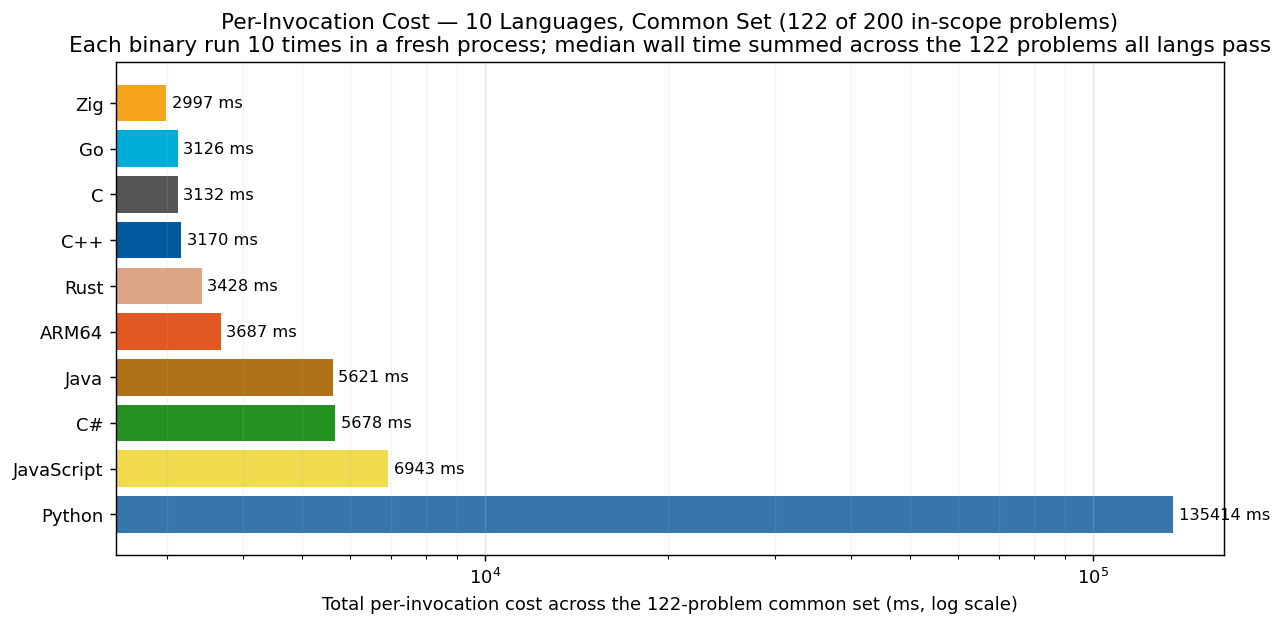
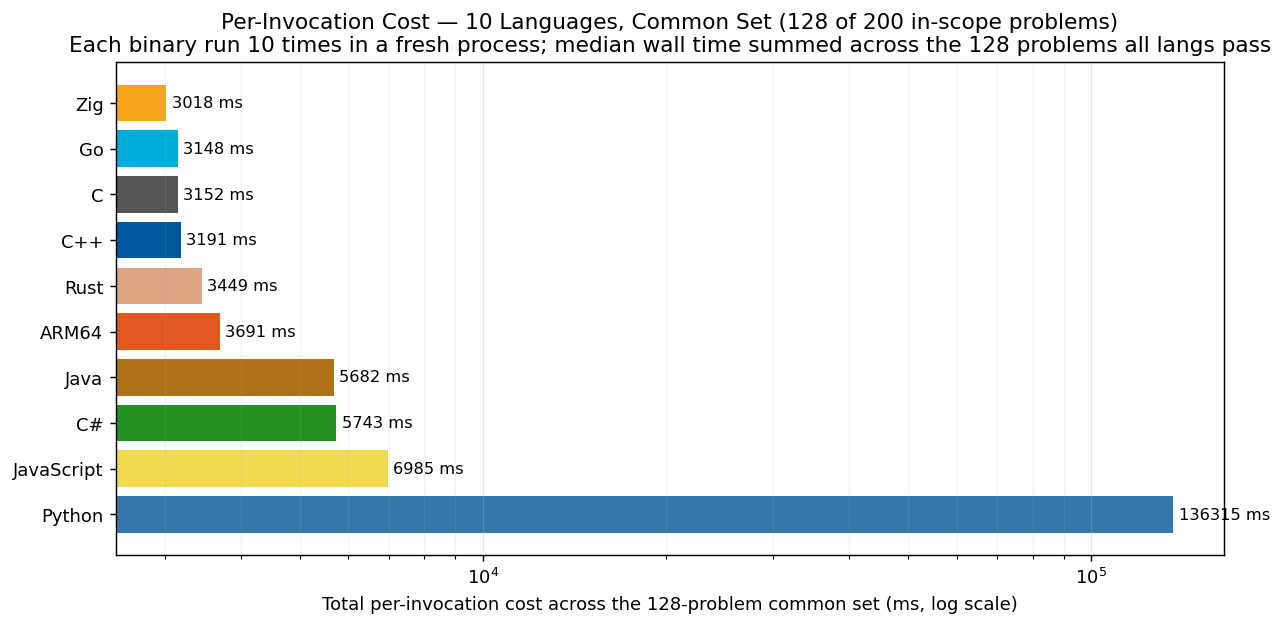
publish: +20 cells (py 158,160,173,188,194 / 5-lang × 158,160,194); common-set 125→128

diff --git a/RESULTS.md b/RESULTS.md
@@ -1,37 +1,37 @@
 # Project Euler — Cross-Language Benchmarks
 
-> **Scope: 200 problems × 10 languages = 2000 cells, 1543 measured (77.2% coverage).**
-> The cross-language ranking below is computed over the **122-problem common set** (problems where every language has a passing measurement) — the apples-to-apples comparison surface.  Per-language coverage detail appears below the ranking.
+> **Scope: 200 problems × 10 languages = 2000 cells, 1571 measured (78.5% coverage).**
+> The cross-language ranking below is computed over the **128-problem common set** (problems where every language has a passing measurement) — the apples-to-apples comparison surface.  Per-language coverage detail appears below the ranking.
 > Growing carefully — each new problem and language is audited for state-leak
 > safety, verified for answer correctness, and added only when it cleanly fits the
 > measurement methodology.  See [JOURNEY.md](JOURNEY.md) for the full story of how
 > we got here, including the reset from 200+ problems back to a verified 10×10
 > core, then the disciplined expansion to today's 200-problem scope.
 
-## Per-Invocation Cost (Common Set, 122 of 200 problems)
+## Per-Invocation Cost (Common Set, 128 of 200 problems)
 
 We run each program 10 times in fresh OS processes (no warmup, no shared state).
 Each invocation pays full startup + algorithm cost — the cost a real CLI / cron /
 shell-loop user actually pays.  The median wall time across the 10 invocations is
-the headline per-problem number, and the table sums over the 122-problem
+the headline per-problem number, and the table sums over the 128-problem
 common set so partial-coverage languages aren't artificially "faster" than fully-
 covered ones.  Per-language individual coverage (which may be ≥ the common set) is
 shown in the coverage block further down.
 
 ![Per-Invocation Cost](charts/per_iter_total.png)
 
-| Rank | Language | Total (122-problem common set) | Lines of code | vs Fastest |
+| Rank | Language | Total (128-problem common set) | Lines of code | vs Fastest |
 |------|----------|--------------------:|--------------:|-----------:|
-| 1 | **Zig** | 3.00 s | 7,662 | 1.00× |
-| 2 | **Go** | 3.13 s | 7,085 | 1.04× |
-| 3 | **C** | 3.13 s | 7,397 | 1.04× |
-| 4 | **C++** | 3.17 s | 5,635 | 1.06× |
-| 5 | **Rust** | 3.43 s | 6,577 | 1.14× |
-| 6 | **ARM64** | 3.69 s | 23,011 | 1.23× |
-| 7 | **Java** | 5.62 s | 5,684 | 1.88× |
-| 8 | **C#** | 5.68 s | 5,792 | 1.89× |
-| 9 | **JavaScript** | 6.94 s | 4,789 | 2.32× |
-| 10 | **Python** | 135.41 s | 4,262 | 45.18× |
+| 1 | **Zig** | 3.02 s | 8,138 | 1.00× |
+| 2 | **Go** | 3.15 s | 7,505 | 1.04× |
+| 3 | **C** | 3.15 s | 7,863 | 1.04× |
+| 4 | **C++** | 3.19 s | 6,063 | 1.06× |
+| 5 | **Rust** | 3.45 s | 6,928 | 1.14× |
+| 6 | **ARM64** | 3.69 s | 24,412 | 1.22× |
+| 7 | **Java** | 5.68 s | 6,088 | 1.88× |
+| 8 | **C#** | 5.74 s | 6,175 | 1.90× |
+| 9 | **JavaScript** | 6.98 s | 5,107 | 2.31× |
+| 10 | **Python** | 136.31 s | 4,567 | 45.17× |
 
 ## Speed vs Code Size
 
@@ -188,12 +188,12 @@ fixed tier order (native → managed → interpreted).
 | Problem | ARM64 | C | C++ | Rust | Zig | Go | C# | Java | JavaScript | Python |
 |---------|----:|----:|----:|----:|----:|----:|----:|----:|----:|----:|
 | **p101** | 1.0 µs | 1.3 µs | 1.2 µs | 2.3 µs | 1.6 µs | 3.6 µs | 210.9 µs | 16.9 µs | 79.6 µs | 55.2 µs |
-| **p102** | 153.0 µs | 482.3 µs | 486.8 µs | 203.1 µs | 173.2 µs | 189.9 µs | 13.06 ms | — | 1.02 ms | — |
+| **p102** | 153.0 µs | 482.3 µs | 486.8 µs | 203.1 µs | 173.2 µs | 189.9 µs | 13.06 ms | 11.30 ms | 1.02 ms | 999.6 µs |
 | **p103** | 7.71 ms | 26.93 ms | 27.09 ms | 27.28 ms | 25.31 ms | 66.76 ms | 220.44 ms | 77.77 ms | 186.57 ms | 3.10 s |
 | **p104** | 6.71 ms | 6.17 ms | 5.00 ms | 6.36 ms | 6.47 ms | 7.13 ms | 6.42 ms | 8.13 ms | 7.94 ms | 135.81 ms |
-| **p105** | 3.21 ms | 19.67 ms | 20.06 ms | 21.28 ms | 19.90 ms | 21.38 ms | 36.10 ms | — | 36.03 ms | — |
+| **p105** | 3.21 ms | 19.67 ms | 20.06 ms | 21.28 ms | 19.90 ms | 21.38 ms | 36.10 ms | 38.22 ms | 36.03 ms | 896.30 ms |
 | **p106** | 0 ns | 208 ns | 333 ns | 292 ns | 333 ns | 2.1 µs | 151.0 µs | 6.0 µs | 36.7 µs | 6.5 µs |
-| **p107** | 146.0 µs | 167.3 µs | 179.6 µs | 51.5 µs | 145.2 µs | 142.1 µs | 13.83 ms | — | 646.6 µs | — |
+| **p107** | 146.0 µs | 167.3 µs | 179.6 µs | 51.5 µs | 145.2 µs | 142.1 µs | 13.83 ms | 10.21 ms | 646.6 µs | 498.9 µs |
 | **p108** | 352.0 µs | 7.8 µs | 6.9 µs | 7.8 µs | 8.2 µs | 9.0 µs | 306.6 µs | 130.0 µs | 203.3 µs | 356.2 µs |
 | **p109** | 32.0 µs | 4.3 µs | 4.1 µs | 20.8 µs | 9.7 µs | 30.7 µs | 677.5 µs | 686.7 µs | 1.52 ms | 1.64 ms |
 | **p110** | 5.89 ms | 8.92 ms | 6.71 ms | 7.76 ms | 70.24 ms | 11.20 ms | 35.94 ms | 25.01 ms | 11.86 ms | 458.04 ms |
@@ -237,16 +237,16 @@ fixed tier order (native → managed → interpreted).
 | **p148** | 0 ns | 42 ns | — | — | 42 ns | 5.0 µs | — | — | — | — |
 | **p149** | 42.95 ms | 44.93 ms | — | — | 48.34 ms | 52.98 ms | — | — | — | — |
 | **p150** | 127.03 ms | 158.85 ms | — | — | 123.28 ms | 226.44 ms | — | — | — | — |
-| **p151** | 11.0 µs | — | — | — | 1.8 µs | 3.9 µs | — | — | — | — |
+| **p151** | 11.0 µs | 1.9 µs | — | — | 1.8 µs | 3.9 µs | — | — | — | — |
 | **p152** | 1.62 s | 783.50 ms | — | — | 766.73 ms | 1.22 s | — | — | — | — |
 | **p153** | 2.41 s | 2.38 s | — | — | 3.15 s | 2.43 s | — | — | — | — |
 | **p154** | 3.47 s | 2.68 s | — | — | 3.10 s | 3.92 s | — | — | — | — |
 | **p155** | 811.52 ms | 598.02 ms | — | — | 612.28 ms | 837.06 ms | — | — | — | — |
 | **p156** | 143.76 ms | 90.24 ms | — | — | 77.07 ms | 126.54 ms | — | — | — | — |
 | **p157** | 6.53 ms | 5.66 ms | — | — | 4.87 ms | 5.30 ms | — | — | — | — |
-| **p158** | 0 ns | 41 ns | — | — | 42 ns | 1.2 µs | — | — | — | — |
+| **p158** | 0 ns | 41 ns | 42 ns | 125 ns | 42 ns | 1.2 µs | 73.9 µs | 3.3 µs | 18.1 µs | 7.7 µs |
 | **p159** | 13.19 ms | 19.29 ms | — | — | 12.28 ms | 19.70 ms | — | — | — | — |
-| **p160** | 287.0 µs | 245.7 µs | — | — | 309.5 µs | 248.3 µs | — | — | — | — |
+| **p160** | 287.0 µs | 245.7 µs | 246.0 µs | 206.0 µs | 309.5 µs | 248.3 µs | 1.10 ms | 1.59 ms | 4.22 ms | 3.07 ms |
 | **p161** | 47.17 ms | 29.87 ms | — | — | 27.07 ms | 46.05 ms | — | — | — | — |
 | **p162** | 0 ns | 41 ns | — | — | 42 ns | 8.0 µs | — | — | — | — |
 | **p163** | 150.42 ms | 115.47 ms | — | — | 144.29 ms | 167.05 ms | — | — | — | — |
@@ -259,7 +259,7 @@ fixed tier order (native → managed → interpreted).
 | **p170** | 39.50 s | 39.45 s | 38.41 s | — | 38.48 s | 40.38 s | — | — | — | — |
 | **p171** | 2.90 ms | 1.46 ms | — | — | 2.14 ms | 3.20 ms | — | — | — | — |
 | **p172** | 3.0 µs | 2.1 µs | — | — | 2.5 µs | 6.5 µs | — | — | — | — |
-| **p173** | 10.02 ms | 536.7 µs | — | — | 590.8 µs | 740.6 µs | — | — | — | — |
+| **p173** | 10.02 ms | 536.7 µs | — | — | 590.8 µs | 740.6 µs | — | — | — | 92.81 ms |
 | **p174** | 3.50 ms | 2.68 ms | — | — | 2.09 ms | 3.08 ms | — | — | — | — |
 | **p175** | 0 ns | 208 ns | — | — | 125 ns | 1.5 µs | — | — | — | — |
 | **p176** | 285.0 µs | 16.5 µs | — | — | 62.0 µs | 40.1 µs | — | — | — | — |
@@ -274,18 +274,18 @@ fixed tier order (native → managed → interpreted).
 | **p185** | 94.79 ms | 219.9 µs | — | — | 47.87 ms | 25.32 ms | — | — | — | — |
 | **p186** | 32.91 ms | 39.25 ms | — | — | 44.76 ms | 76.42 ms | — | — | — | — |
 | **p187** | 397.35 ms | 431.12 ms | — | — | 366.35 ms | 398.51 ms | — | — | — | — |
-| **p188** | 6.0 µs | 2.8 µs | — | — | 3.2 µs | 22.2 µs | — | — | — | — |
+| **p188** | 6.0 µs | 2.8 µs | — | — | 3.2 µs | 22.2 µs | — | — | — | 33.6 µs |
 | **p189** | 116.94 ms | 133.45 ms | — | — | 170.35 ms | 313.10 ms | — | — | — | — |
 | **p190** | 2.0 µs | 1.3 µs | — | — | 1.3 µs | 4.0 µs | — | — | — | — |
 | **p191** | 1.0 µs | 792 ns | — | — | 792 ns | 2.5 µs | — | — | — | — |
 | **p192** | 19.04 ms | 18.85 ms | — | — | 29.24 ms | 48.78 ms | — | — | — | — |
 | **p193** | 309.78 ms | 251.43 ms | — | — | 255.11 ms | 358.61 ms | — | — | — | — |
-| **p194** | 4.0 µs | 1.8 µs | — | — | 4.7 µs | 3.7 µs | — | — | — | — |
+| **p194** | 4.0 µs | 1.8 µs | 2.3 µs | 2.3 µs | 4.7 µs | 3.7 µs | 323.8 µs | 46.2 µs | 204.3 µs | 6.3 µs |
 | **p195** | 233.82 ms | 229.28 ms | — | — | 313.32 ms | 231.73 ms | — | — | — | — |
 | **p196** | 151.93 ms | 137.90 ms | — | — | 140.27 ms | 159.54 ms | — | — | — | — |
 | **p197** | 29.0 µs | 22.0 µs | — | — | 41.5 µs | 77.4 µs | — | — | — | — |
 | **p198** | 131.20 ms | 136.01 ms | — | — | 418.20 ms | 311.53 ms | — | — | — | — |
-| **p199** | 2.05 ms | — | — | — | 649.2 µs | 1.63 ms | — | — | — | — |
+| **p199** | 2.05 ms | 694.6 µs | — | — | 649.2 µs | 1.63 ms | — | — | — | — |
 | **p200** | 76.67 ms | 10.53 ms | — | — | 10.04 ms | 10.23 ms | — | — | — | — |
 
 ## Method
